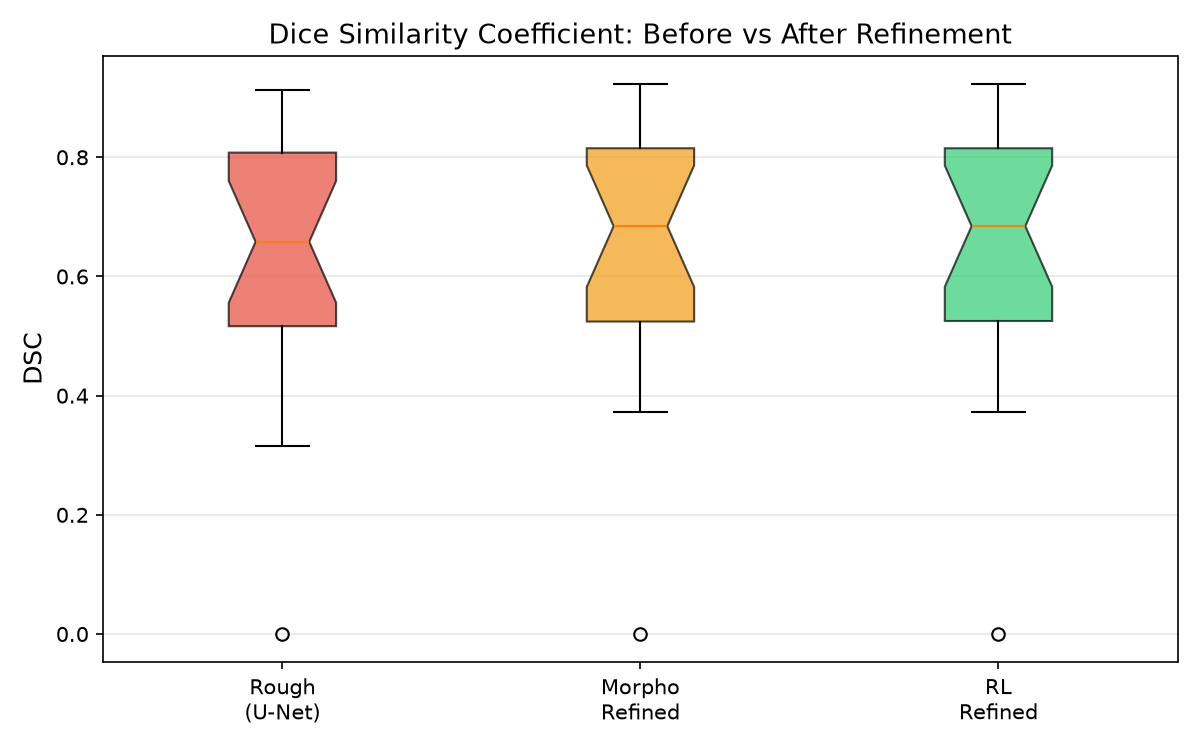
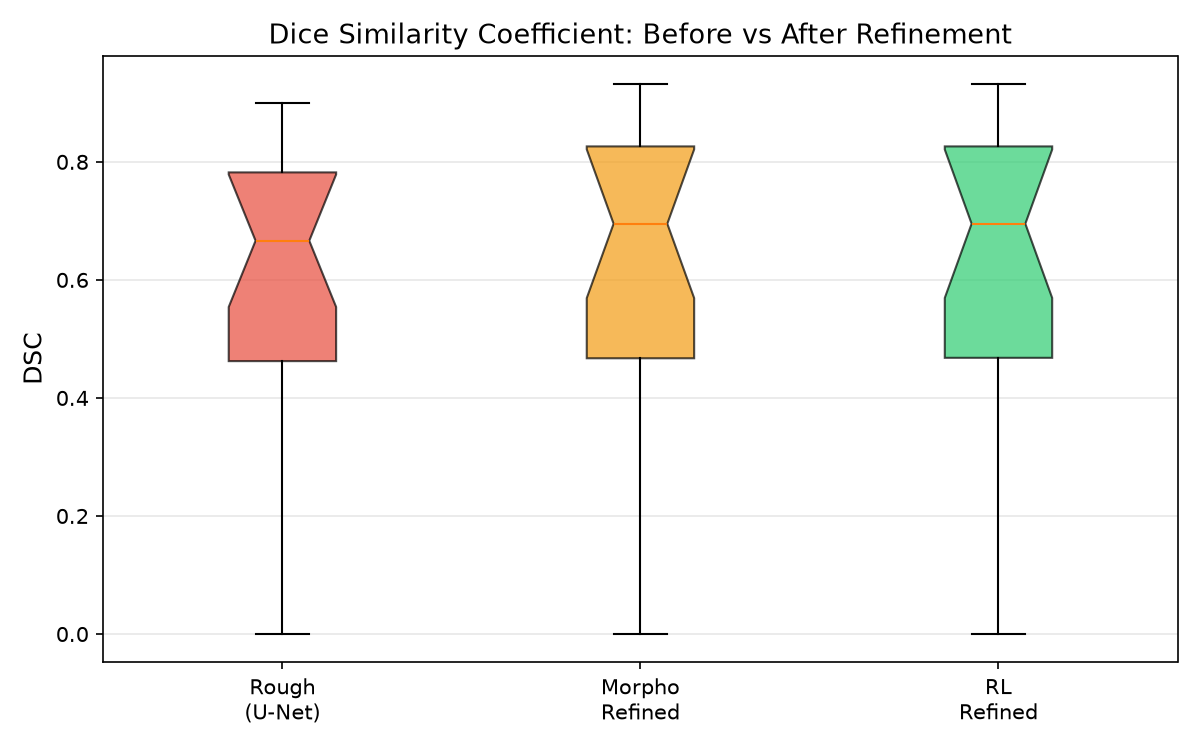
fix: apply Zoom-Refiner ROI Gating to evaluate.py to eliminate background skull false positives in Attention U-Net comparison image

diff --git a/scripts/eval/evaluate.py b/scripts/eval/evaluate.py
@@ -237,7 +237,29 @@ def evaluate(
             with torch.no_grad():
                 logits = unet(img_t)
                 probs = torch.sigmoid(logits)
-                rough = (probs > 0.5).float().squeeze().cpu().numpy()
+                if model_type == "attention_unet":
+                    # Zoom-Refiner 4x ROI Gating for Small Expert
+                    mask_50 = (probs > 0.35).squeeze()
+                    area_50 = torch.sum(mask_50).item()
+                    if 0 < area_50 < 300:
+                        import torch.nn.functional as F
+                        y_pts, x_pts = torch.where(mask_50)
+                        cy, cx = int(torch.mean(y_pts.float()).item()), int(torch.mean(x_pts.float()).item())
+                        half = 28
+                        H, W = img_t.shape[-2:]
+                        y1, y2 = max(0, cy - half), min(H, cy + half)
+                        x1, x2 = max(0, cx - half), min(W, cx + half)
+                        crop_img = img_t[:, :, y1:y2, x1:x2]
+                        crop_zoom = F.interpolate(crop_img, size=(H, W), mode='bilinear', align_corners=False)
+                        out_zoom = torch.sigmoid(unet(crop_zoom))
+                        out_crop_back = F.interpolate(out_zoom, size=(y2 - y1, x2 - x1), mode='bilinear', align_corners=False)
+                        probs_roi = torch.zeros_like(probs)
+                        probs_roi[:, :, y1:y2, x1:x2] = (probs[:, :, y1:y2, x1:x2] + out_crop_back) / 2.0
+                        probs = probs_roi
+                    thresh = 0.38
+                else:
+                    thresh = 0.5
+                rough = (probs > thresh).float().squeeze().cpu().numpy()
                 uncert = (1.0 - 2.0 * torch.abs(probs - 0.5)).squeeze().cpu().numpy()
         else:
             rough = rough_masks[i]
